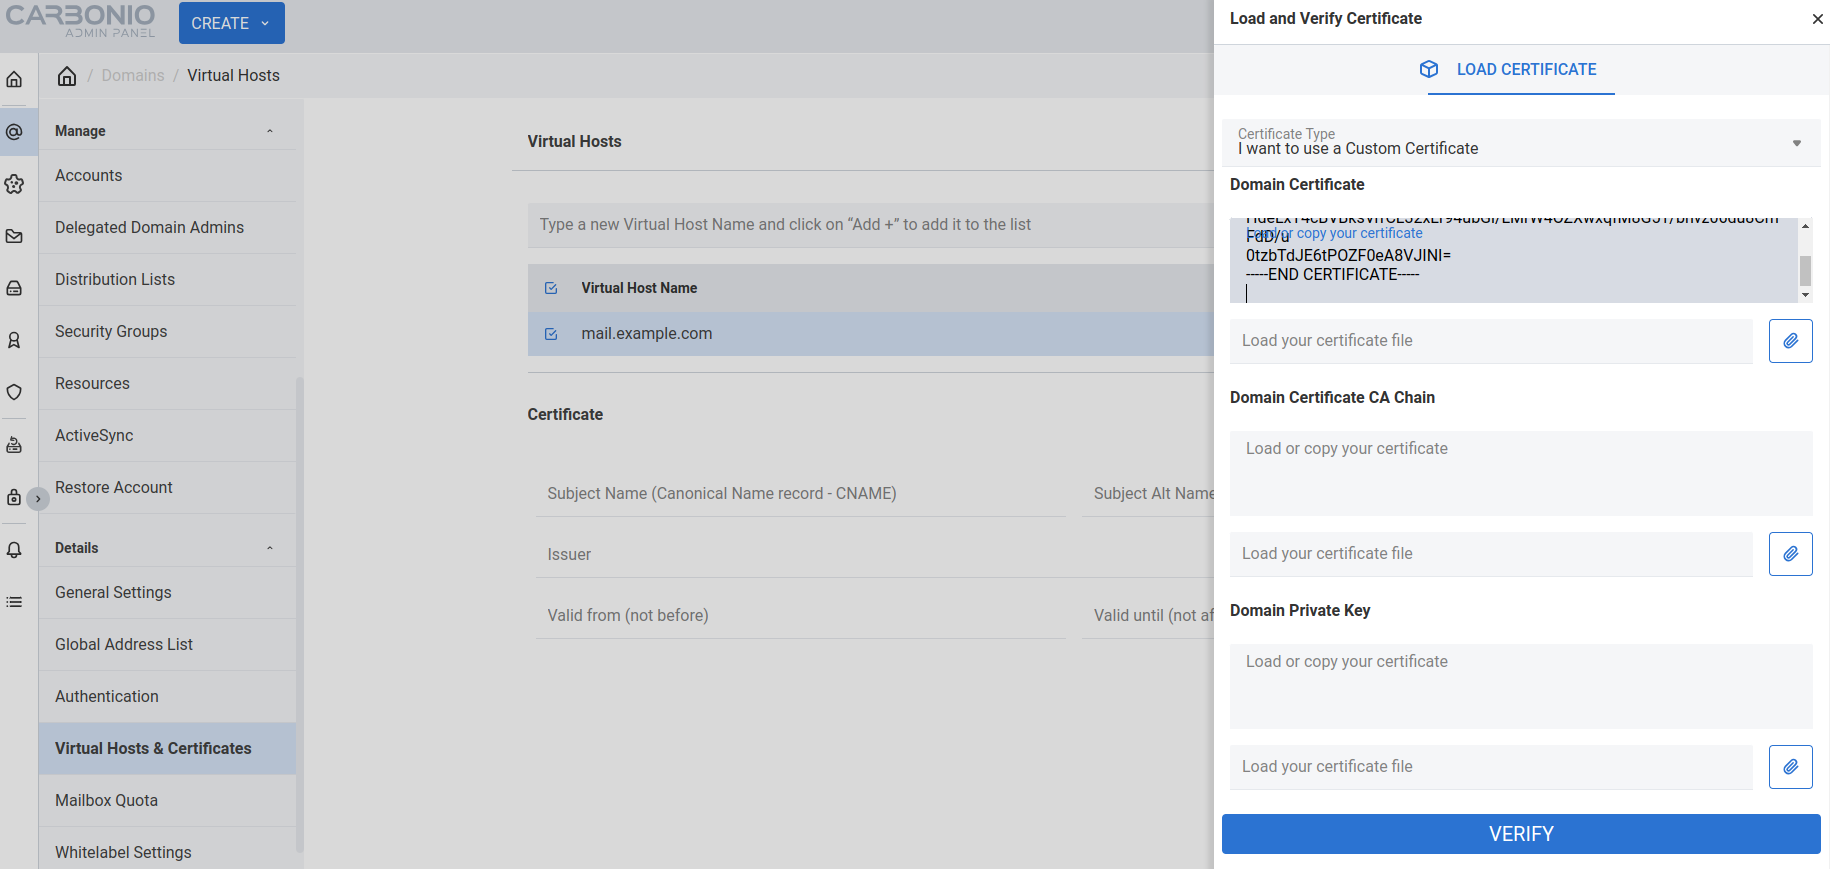
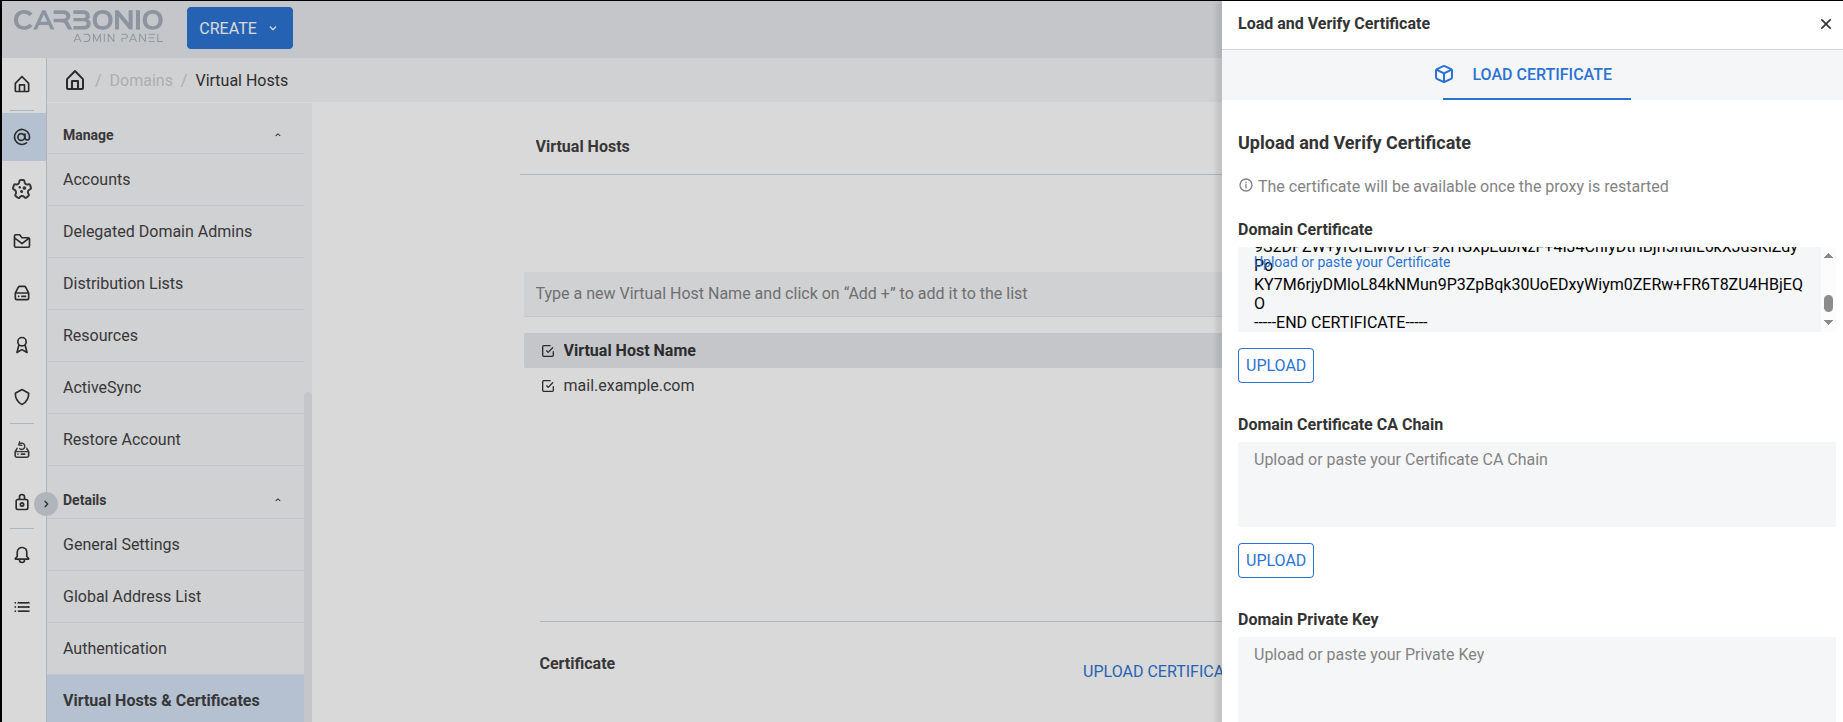
updated le cert

diff --git a/source/_includes/_adminpanel/_domains/vhost.rst b/source/_includes/_adminpanel/_domains/vhost.rst
@@ -36,48 +36,18 @@ procedure that requires only a few steps.
    number (and names) of the domains present on the |product|
    infrastructure.
 
-Select the virtual host, then click :blue:`VERIFY CERTIFICATE`. In the
-dialog, you can choose to use:
+Select the virtual host, then you can choose:
 
-* A Let's Encrypt *longChain* Certificate, i.e., including an
-  intermediate certificate. Make sure to :ref:`satisfy the
+* **GENERATE A LET'S ENCRYPT CERTIFICATE**: Make sure to :ref:`satisfy the
   requirements <le-procedure>` before clicking the
   :bdg-primary:`GENERATE CERTIFICATE` button. Complete the procedure
   according to the directions :ref:`below <le-procedure>`.
 
-* A Let's Encrypt *shortChain* Certificate, without intermediate
-  certificate: like the previous case, make sure to :ref:`satisfy the
-  requirements <le-procedure>` before clicking the
-  :bdg-primary:`GENERATE CERTIFICATE` button. Complete the procedure
-  according to the directions :ref:`below <le-procedure>`.
 
-  .. card:: Let's Encrypt's Short and Long Chain certificates.
-
-     Without going into much details, the difference between the two
-     types of certificates issued by Let's Encrypt (*"ISRG Root X1"*)
-     is the compatibility with older Android clients and SSL
-     libraries.
-
-     More technically, the difference is that the Short Chain contains
-     two certificates: Let's Encrypt's Root certificate and the one
-     issued to your website, signed by the former; while the Long
-     Chain three: the same of the Short Chain and an intermediate
-     certificate. The *ISRG Root X1* indeed, was issued quite recently
-     and may not be known to some browsers, devices, or clients,
-     therefore it was decided to add as intermediate certificate
-     another root certificate that is well known to clients, to expand
-     compatibility.
-
-     .. seealso:: More details and technicalities about the Short
-        vs. Long Chain certificates can be found in article `Long
-        (default) and Short (alternate) Certificate Chains Explained
-        <https://community.letsencrypt.org/t/long-default-and-short-alternate-certificate-chains-explained/>`_.
-
-* A custom certificate. In this case, you need to provide by yourself
+* **UPLOAD A CERTIFICATE**: In this case, you need to provide by yourself
   the three files of the authorisation chain (i.e., the *Domain
   Certificate*, the *Certificate CA Chain*, and the *Private
-  Key*). You can either click the paper clip icon to upload a
-  certificate file  or paste the content of the file in the
+  Key*). You can either upload a certificate file  or paste the content of the file in the
   corresponding textfields.
 
   .. note:: If you paste the certificate, remember to add a carriage

diff --git a/source/carbonio/install/ansible.rst b/source/carbonio/install/ansible.rst
@@ -75,7 +75,7 @@ Linux, macOS, or BSD, satisfying the following requirements
 
    **Supported Versions**
 
-   The supported ``ansible-core`` versions are **>= 2.13.3**
+   The supported ``ansible-core`` versions are **>= 2.15.13**
 
    For more detailed information about available versions and compatibility between ``ansible`` and ``ansible-core``, refer to the official Ansible documentation:
 
